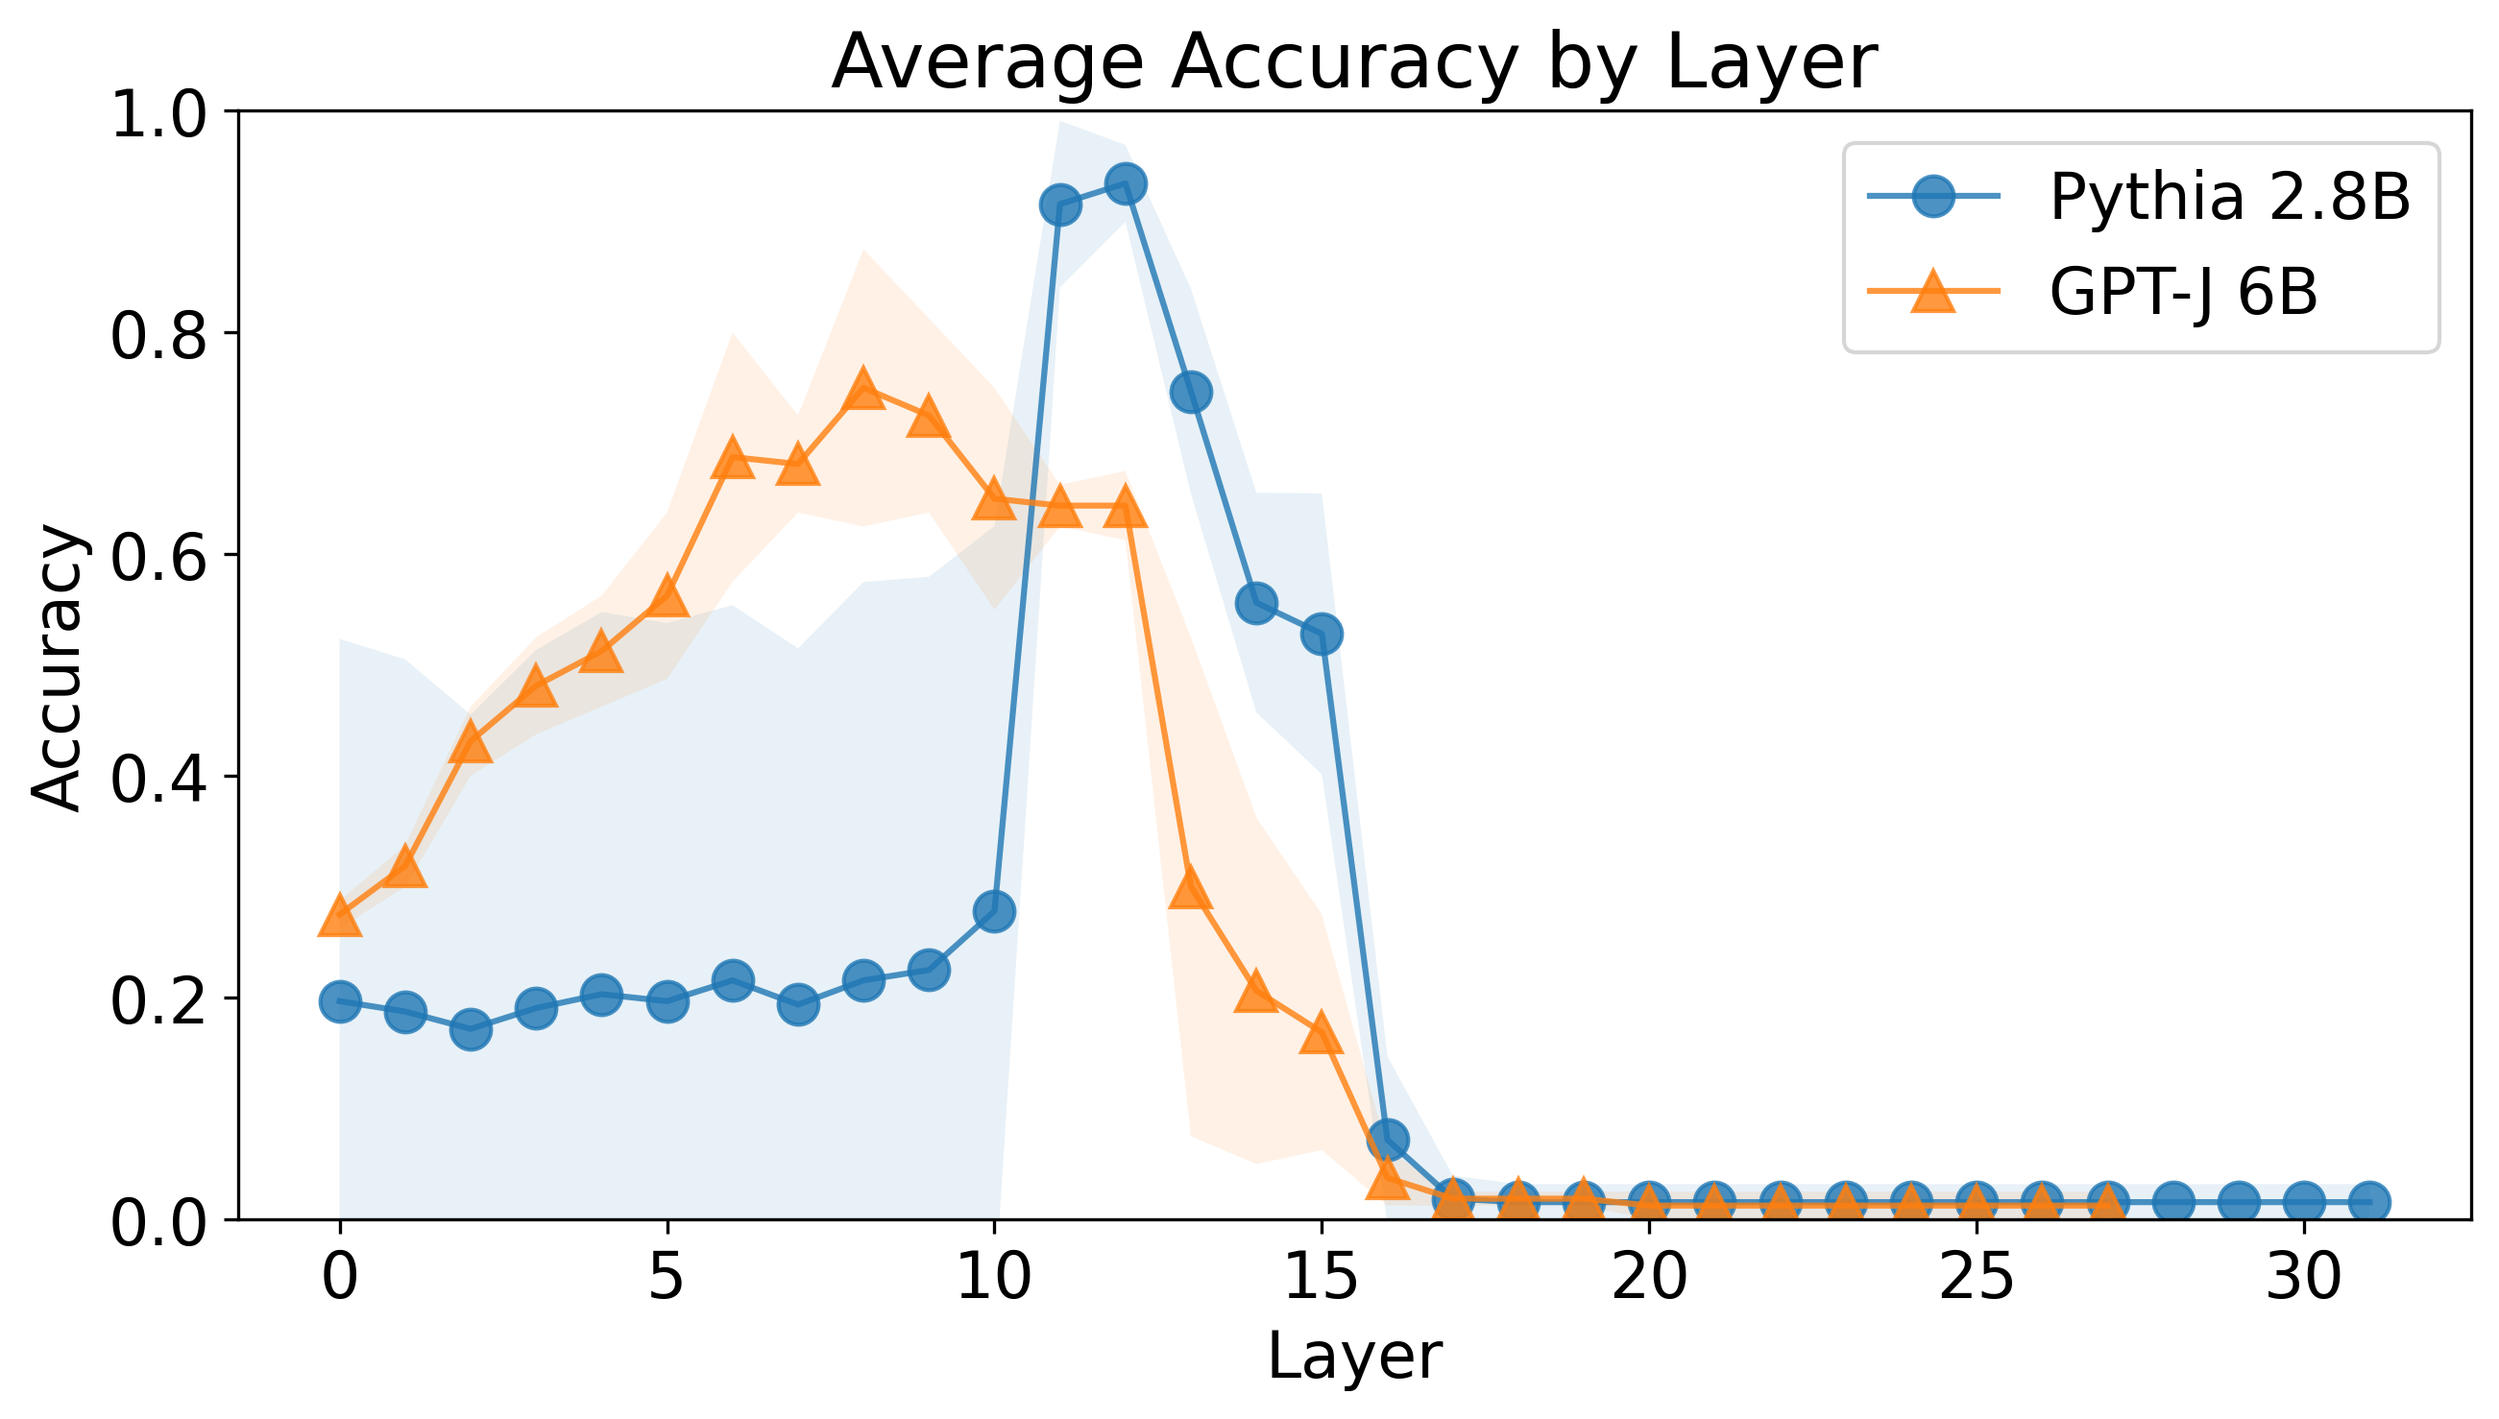
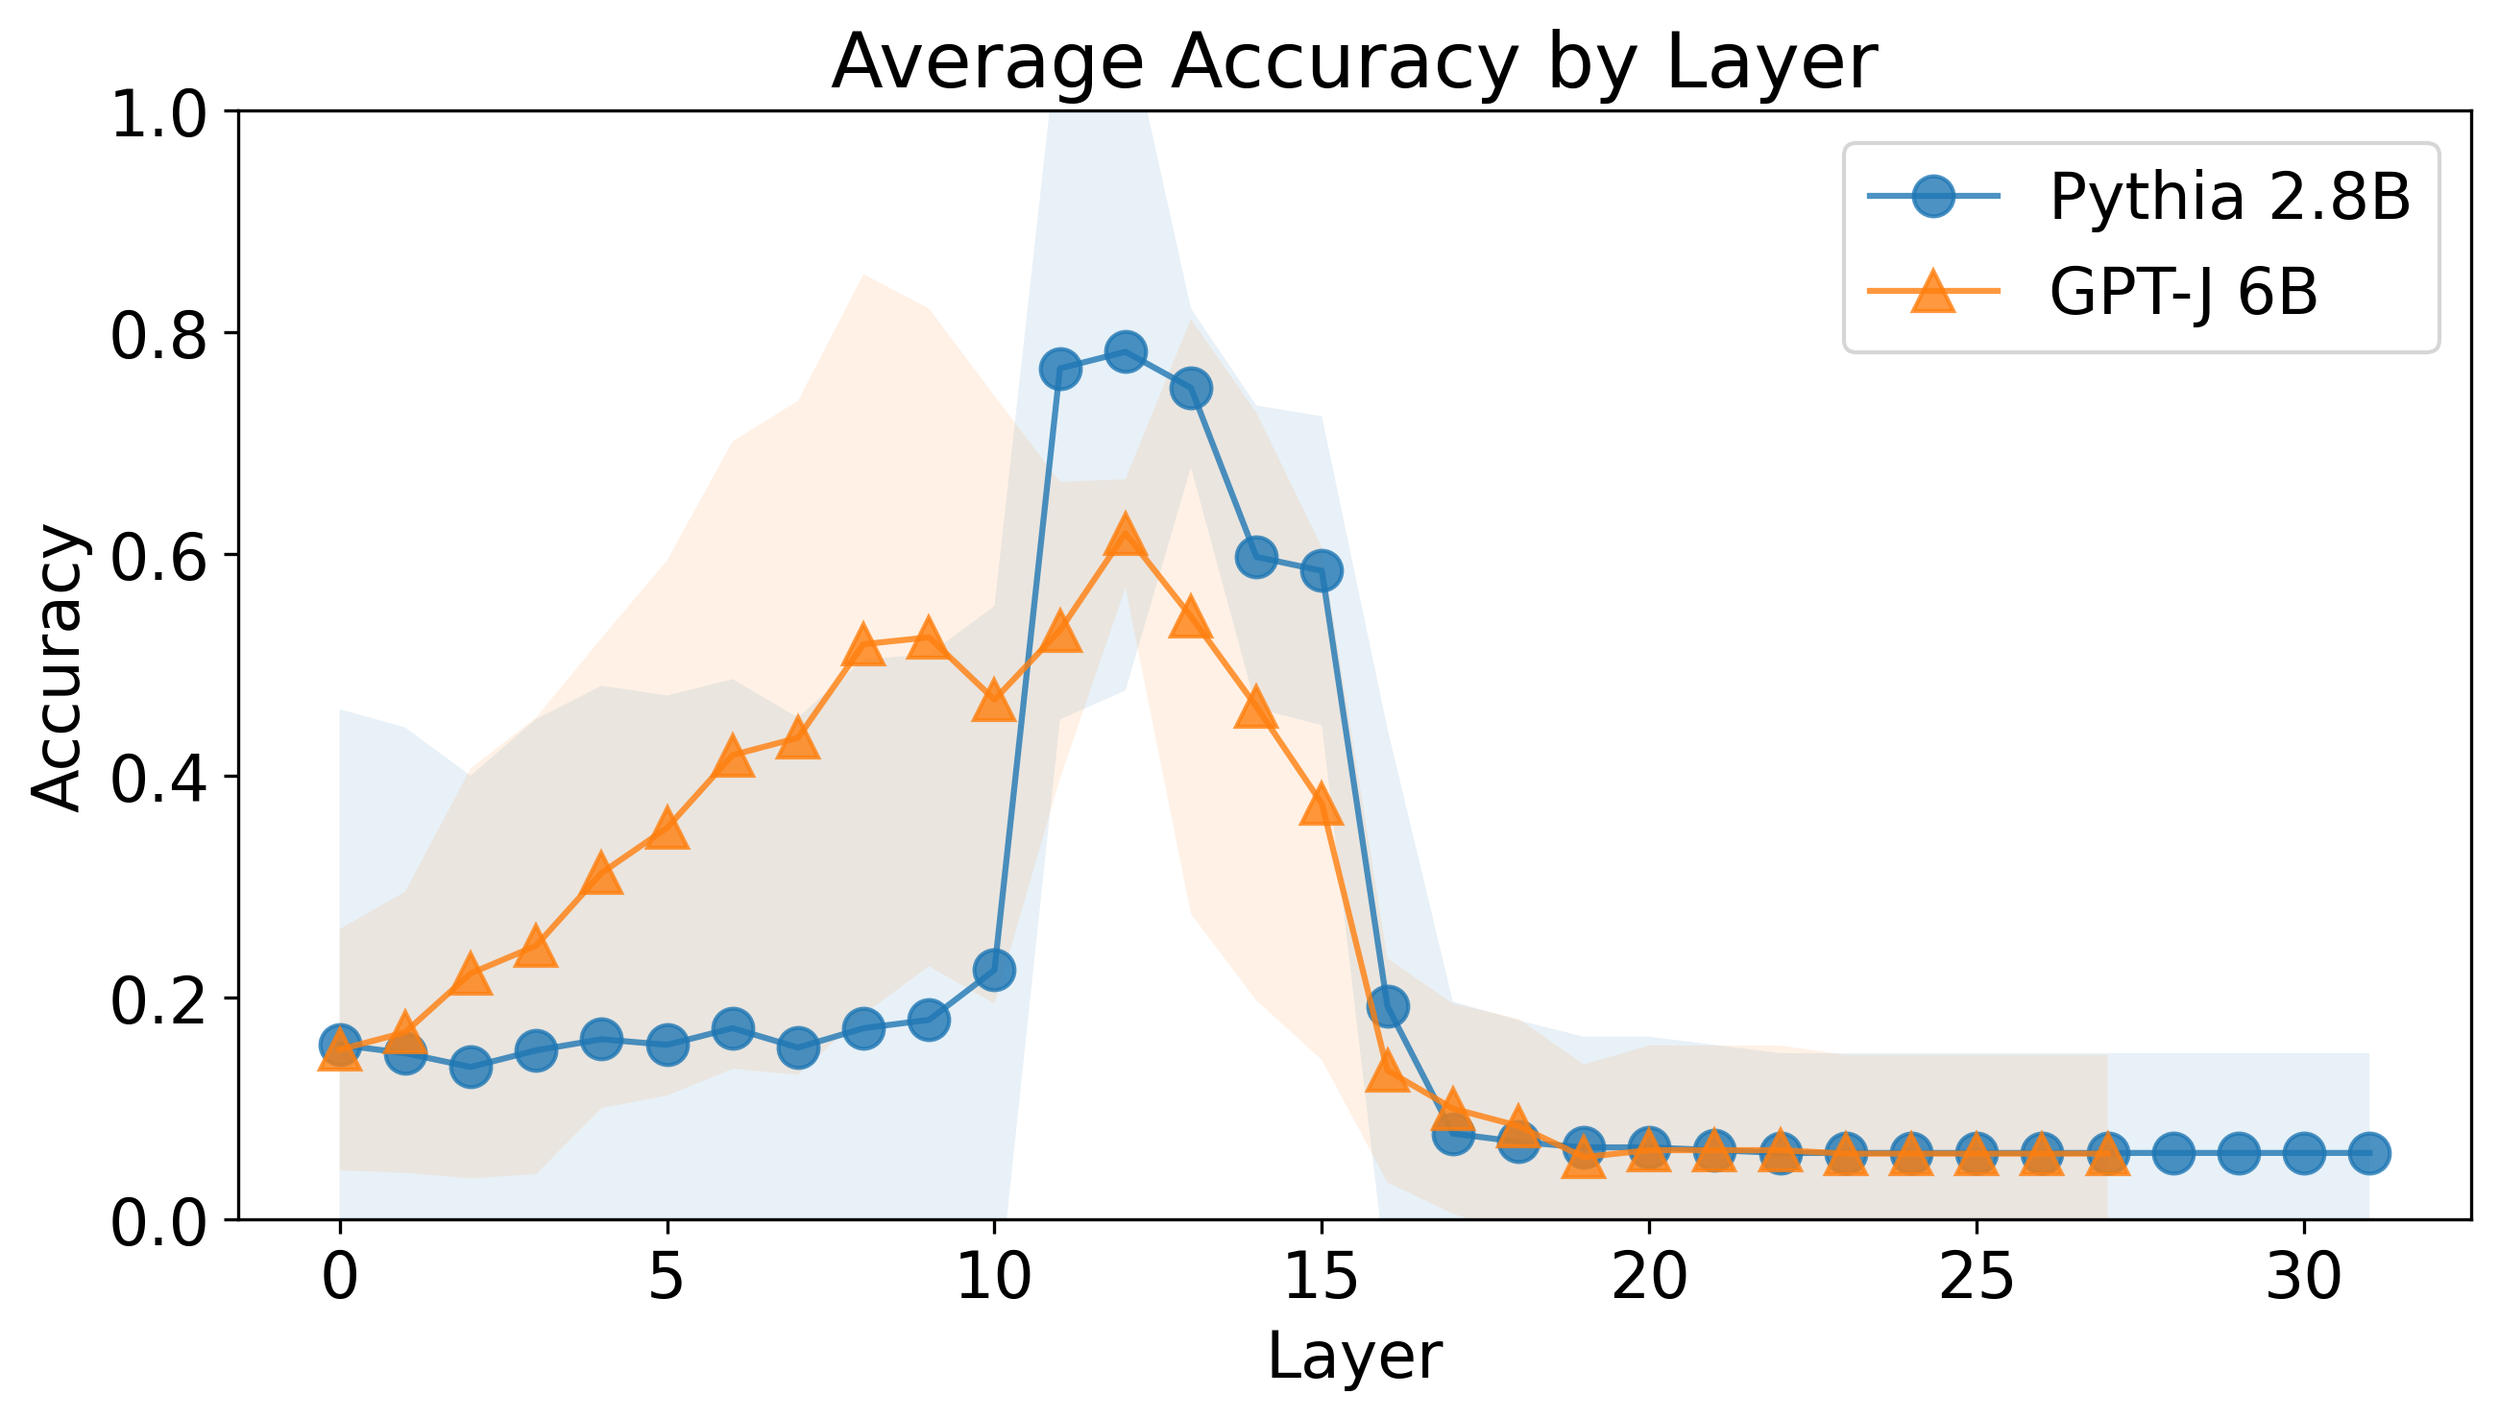
layer-5

diff --git a/outputs/figures/main_experiment_results_table.tex b/outputs/figures/main_experiment_results_table.tex
@@ -19,49 +19,49 @@ Model & Task type & Task name &  &  &  &  &  &  &  &  &  &  &  &  &  \\
 \midrule
     \endhead
     
-\multirow[t]{18}{*}{GPT-J 6B} & \multirow[t]{6}{*}{Algorithmic} & List first & 0.23 & 0.90 & 0.80 & 0.79 & 0.72 & 0.70 & 0.72 & 0.75 & 0.72 & 0.76 & 0.72 & 0.79 & 0.82 \\
- &  & List last & 0.31 & 0.93 & 0.47 & 0.45 & 0.44 & 0.38 & 0.46 & 0.41 & 0.51 & 0.51 & 0.44 & 0.45 & 0.41 \\
- &  & Next letter & 0.25 & 0.86 & 0.86 & 0.86 & 0.86 & 0.90 & 0.91 & 0.95 & 0.93 & 0.95 & 0.94 & 0.94 & 0.91 \\
- &  & Prev letter & 0.15 & 0.23 & 0.21 & 0.15 & 0.28 & 0.25 & 0.29 & 0.23 & 0.19 & 0.21 & 0.28 & 0.24 & 0.23 \\
- &  & To lower & 0.00 & 1.00 & 0.10 & 0.14 & 0.11 & 0.14 & 0.05 & 0.16 & 0.11 & 0.15 & 0.09 & 0.10 & 0.11 \\
- &  & To upper & 0.00 & 1.00 & 0.46 & 0.50 & 0.47 & 0.41 & 0.44 & 0.46 & 0.40 & 0.45 & 0.38 & 0.53 & 0.45 \\
+\multirow[t]{18}{*}{GPT-J 6B} & \multirow[t]{6}{*}{Algorithmic} & List first & 0.23 & 0.90 & 0.80 & 0.76 & 0.71 & 0.71 & 0.74 & 0.76 & 0.79 & 0.71 & 0.82 & 0.75 & 0.70 \\
+ &  & List last & 0.31 & 0.93 & 0.47 & 0.44 & 0.44 & 0.44 & 0.39 & 0.47 & 0.46 & 0.49 & 0.45 & 0.47 & 0.46 \\
+ &  & Next letter & 0.15 & 0.91 & 0.93 & 0.95 & 0.95 & 0.91 & 0.97 & 0.93 & 0.90 & 0.94 & 0.93 & 0.95 & 0.94 \\
+ &  & Prev letter & 0.16 & 0.21 & 0.16 & 0.19 & 0.20 & 0.19 & 0.16 & 0.17 & 0.14 & 0.20 & 0.19 & 0.20 & 0.20 \\
+ &  & To lower & 0.00 & 1.00 & 0.07 & 0.17 & 0.12 & 0.15 & 0.15 & 0.14 & 0.14 & 0.14 & 0.16 & 0.24 & 0.16 \\
+ &  & To upper & 0.00 & 1.00 & 0.51 & 0.55 & 0.60 & 0.53 & 0.56 & 0.64 & 0.53 & 0.62 & 0.47 & 0.56 & 0.56 \\
 \cline{2-16}
- & \multirow[t]{4}{*}{Knowledge} & Country capital & 0.07 & 0.54 & 0.36 & 0.53 & 0.50 & 0.45 & 0.49 & 0.50 & 0.46 & 0.40 & 0.46 & 0.55 & 0.50 \\
- &  & Location continent & 0.02 & 0.70 & 0.55 & 0.59 & 0.61 & 0.60 & 0.66 & 0.70 & 0.57 & 0.55 & 0.51 & 0.54 & 0.65 \\
- &  & Location religion & 0.06 & 0.68 & 0.57 & 0.55 & 0.69 & 0.62 & 0.60 & 0.53 & 0.66 & 0.64 & 0.69 & 0.64 & 0.59 \\
- &  & Person language & 0.02 & 0.81 & 0.74 & 0.74 & 0.75 & 0.74 & 0.78 & 0.75 & 0.72 & 0.78 & 0.74 & 0.74 & 0.71 \\
+ & \multirow[t]{4}{*}{Knowledge} & Country capital & 0.14 & 0.64 & 0.46 & 0.50 & 0.40 & 0.44 & 0.42 & 0.51 & 0.47 & 0.51 & 0.46 & 0.45 & 0.51 \\
+ &  & Location continent & 0.00 & 0.69 & 0.54 & 0.56 & 0.47 & 0.46 & 0.59 & 0.57 & 0.50 & 0.55 & 0.56 & 0.54 & 0.49 \\
+ &  & Location religion & 0.07 & 0.69 & 0.56 & 0.57 & 0.71 & 0.68 & 0.59 & 0.71 & 0.69 & 0.60 & 0.60 & 0.59 & 0.57 \\
+ &  & Person language & 0.04 & 0.80 & 0.70 & 0.79 & 0.74 & 0.74 & 0.79 & 0.76 & 0.76 & 0.74 & 0.76 & 0.74 & 0.82 \\
 \cline{2-16}
- & \multirow[t]{4}{*}{Linguistic} & Antonyms & 0.35 & 0.79 & 0.60 & 0.66 & 0.64 & 0.70 & 0.65 & 0.71 & 0.68 & 0.68 & 0.70 & 0.62 & 0.66 \\
- &  & Plural singular & 0.06 & 0.80 & 0.72 & 0.76 & 0.71 & 0.68 & 0.78 & 0.72 & 0.79 & 0.72 & 0.71 & 0.79 & 0.76 \\
- &  & Present simple gerund & 0.00 & 0.93 & 0.78 & 0.94 & 0.81 & 0.81 & 0.84 & 0.89 & 0.84 & 0.82 & 0.86 & 0.85 & 0.85 \\
- &  & Present simple past simple & 0.01 & 0.84 & 0.62 & 0.84 & 0.80 & 0.75 & 0.82 & 0.81 & 0.74 & 0.76 & 0.81 & 0.79 & 0.71 \\
+ & \multirow[t]{4}{*}{Linguistic} & Antonyms & 0.31 & 0.72 & 0.60 & 0.61 & 0.59 & 0.61 & 0.65 & 0.60 & 0.61 & 0.68 & 0.57 & 0.57 & 0.59 \\
+ &  & Plural singular & 0.06 & 0.81 & 0.79 & 0.81 & 0.76 & 0.80 & 0.79 & 0.81 & 0.84 & 0.79 & 0.79 & 0.72 & 0.81 \\
+ &  & Present simple gerund & 0.00 & 0.91 & 0.68 & 0.75 & 0.78 & 0.78 & 0.78 & 0.76 & 0.81 & 0.78 & 0.69 & 0.76 & 0.76 \\
+ &  & Present simple past simple & 0.02 & 0.86 & 0.57 & 0.65 & 0.68 & 0.66 & 0.64 & 0.71 & 0.68 & 0.71 & 0.62 & 0.57 & 0.62 \\
 \cline{2-16}
- & \multirow[t]{4}{*}{Translation} & En es & 0.14 & 0.44 & 0.51 & 0.50 & 0.50 & 0.51 & 0.50 & 0.47 & 0.50 & 0.47 & 0.53 & 0.51 & 0.49 \\
- &  & En fr & 0.21 & 0.42 & 0.35 & 0.36 & 0.38 & 0.36 & 0.40 & 0.38 & 0.36 & 0.34 & 0.36 & 0.38 & 0.39 \\
- &  & Es en & 0.06 & 0.76 & 0.65 & 0.71 & 0.65 & 0.71 & 0.70 & 0.65 & 0.66 & 0.65 & 0.74 & 0.71 & 0.61 \\
- &  & Fr en & 0.11 & 0.71 & 0.50 & 0.57 & 0.60 & 0.61 & 0.57 & 0.57 & 0.57 & 0.59 & 0.60 & 0.64 & 0.60 \\
+ & \multirow[t]{4}{*}{Translation} & En es & 0.21 & 0.49 & 0.41 & 0.41 & 0.40 & 0.42 & 0.41 & 0.41 & 0.40 & 0.40 & 0.36 & 0.40 & 0.40 \\
+ &  & En fr & 0.14 & 0.36 & 0.31 & 0.28 & 0.35 & 0.33 & 0.34 & 0.31 & 0.33 & 0.31 & 0.36 & 0.30 & 0.34 \\
+ &  & Es en & 0.04 & 0.82 & 0.62 & 0.69 & 0.71 & 0.62 & 0.68 & 0.74 & 0.72 & 0.70 & 0.74 & 0.66 & 0.75 \\
+ &  & Fr en & 0.08 & 0.65 & 0.40 & 0.41 & 0.49 & 0.53 & 0.41 & 0.47 & 0.40 & 0.47 & 0.45 & 0.40 & 0.41 \\
 \cline{1-16} \cline{2-16}
-\multirow[t]{18}{*}{Pythia 2.8B} & \multirow[t]{6}{*}{Algorithmic} & List first & 0.65 & 0.95 & 0.95 & 0.99 & 0.94 & 0.94 & 0.91 & 0.96 & 0.94 & 0.96 & 0.95 & 0.96 & 1.00 \\
- &  & List last & 0.02 & 0.95 & 0.91 & 0.94 & 0.91 & 0.91 & 0.91 & 0.90 & 0.94 & 0.91 & 0.96 & 0.89 & 0.93 \\
- &  & Next letter & 0.44 & 0.90 & 0.76 & 0.80 & 0.72 & 0.71 & 0.75 & 0.72 & 0.71 & 0.68 & 0.76 & 0.78 & 0.79 \\
- &  & Prev letter & 0.08 & 0.19 & 0.14 & 0.16 & 0.17 & 0.17 & 0.21 & 0.16 & 0.16 & 0.15 & 0.16 & 0.17 & 0.12 \\
- &  & To lower & 0.00 & 1.00 & 0.91 & 0.91 & 0.88 & 0.90 & 0.96 & 0.90 & 0.93 & 0.88 & 0.96 & 0.95 & 0.94 \\
- &  & To upper & 0.00 & 1.00 & 0.91 & 0.95 & 0.90 & 0.93 & 0.97 & 0.89 & 0.94 & 0.95 & 0.90 & 0.99 & 0.95 \\
+\multirow[t]{18}{*}{Pythia 2.8B} & \multirow[t]{6}{*}{Algorithmic} & List first & 0.65 & 0.95 & 0.95 & 0.94 & 0.91 & 0.95 & 0.95 & 0.97 & 0.94 & 0.96 & 0.90 & 0.97 & 0.94 \\
+ &  & List last & 0.02 & 0.95 & 0.91 & 0.90 & 0.90 & 0.91 & 0.91 & 0.91 & 0.94 & 0.96 & 0.93 & 0.90 & 0.96 \\
+ &  & Next letter & 0.46 & 0.85 & 0.65 & 0.66 & 0.64 & 0.68 & 0.69 & 0.68 & 0.66 & 0.66 & 0.65 & 0.66 & 0.68 \\
+ &  & Prev letter & 0.03 & 0.11 & 0.09 & 0.07 & 0.06 & 0.06 & 0.09 & 0.10 & 0.09 & 0.09 & 0.12 & 0.09 & 0.09 \\
+ &  & To lower & 0.00 & 1.00 & 0.95 & 0.96 & 0.95 & 0.95 & 0.94 & 0.97 & 0.93 & 0.93 & 0.96 & 0.94 & 0.94 \\
+ &  & To upper & 0.00 & 1.00 & 0.90 & 0.93 & 0.93 & 0.97 & 0.94 & 0.91 & 0.93 & 0.94 & 0.96 & 0.95 & 0.95 \\
 \cline{2-16}
- & \multirow[t]{4}{*}{Knowledge} & Country capital & 0.08 & 0.47 & 0.45 & 0.51 & 0.49 & 0.53 & 0.47 & 0.50 & 0.55 & 0.51 & 0.55 & 0.47 & 0.50 \\
- &  & Location continent & 0.02 & 0.68 & 0.59 & 0.60 & 0.61 & 0.56 & 0.68 & 0.66 & 0.53 & 0.59 & 0.62 & 0.56 & 0.65 \\
- &  & Location religion & 0.06 & 0.61 & 0.47 & 0.54 & 0.61 & 0.50 & 0.57 & 0.51 & 0.57 & 0.60 & 0.50 & 0.56 & 0.50 \\
- &  & Person language & 0.01 & 0.71 & 0.61 & 0.64 & 0.64 & 0.64 & 0.65 & 0.61 & 0.60 & 0.68 & 0.60 & 0.68 & 0.69 \\
+ & \multirow[t]{4}{*}{Knowledge} & Country capital & 0.19 & 0.61 & 0.54 & 0.50 & 0.57 & 0.55 & 0.56 & 0.50 & 0.56 & 0.51 & 0.57 & 0.54 & 0.54 \\
+ &  & Location continent & 0.00 & 0.71 & 0.57 & 0.61 & 0.61 & 0.56 & 0.57 & 0.66 & 0.66 & 0.60 & 0.59 & 0.61 & 0.60 \\
+ &  & Location religion & 0.09 & 0.62 & 0.59 & 0.57 & 0.64 & 0.60 & 0.56 & 0.64 & 0.65 & 0.59 & 0.60 & 0.59 & 0.60 \\
+ &  & Person language & 0.01 & 0.79 & 0.71 & 0.70 & 0.71 & 0.62 & 0.71 & 0.75 & 0.70 & 0.74 & 0.65 & 0.74 & 0.74 \\
 \cline{2-16}
- & \multirow[t]{4}{*}{Linguistic} & Antonyms & 0.40 & 0.71 & 0.60 & 0.60 & 0.55 & 0.62 & 0.57 & 0.57 & 0.57 & 0.55 & 0.61 & 0.55 & 0.59 \\
- &  & Plural singular & 0.11 & 0.71 & 0.64 & 0.64 & 0.65 & 0.62 & 0.56 & 0.60 & 0.69 & 0.64 & 0.61 & 0.65 & 0.70 \\
- &  & Present simple gerund & 0.00 & 0.75 & 0.62 & 0.68 & 0.55 & 0.54 & 0.68 & 0.59 & 0.62 & 0.62 & 0.64 & 0.64 & 0.62 \\
- &  & Present simple past simple & 0.01 & 0.80 & 0.66 & 0.70 & 0.65 & 0.71 & 0.74 & 0.65 & 0.72 & 0.66 & 0.76 & 0.66 & 0.69 \\
+ & \multirow[t]{4}{*}{Linguistic} & Antonyms & 0.38 & 0.72 & 0.51 & 0.51 & 0.60 & 0.49 & 0.56 & 0.54 & 0.56 & 0.55 & 0.54 & 0.54 & 0.56 \\
+ &  & Plural singular & 0.07 & 0.61 & 0.66 & 0.66 & 0.65 & 0.66 & 0.68 & 0.64 & 0.66 & 0.68 & 0.64 & 0.68 & 0.65 \\
+ &  & Present simple gerund & 0.00 & 0.75 & 0.65 & 0.60 & 0.60 & 0.64 & 0.59 & 0.60 & 0.62 & 0.65 & 0.60 & 0.64 & 0.65 \\
+ &  & Present simple past simple & 0.01 & 0.84 & 0.65 & 0.78 & 0.68 & 0.69 & 0.72 & 0.69 & 0.66 & 0.66 & 0.68 & 0.69 & 0.64 \\
 \cline{2-16}
- & \multirow[t]{4}{*}{Translation} & En es & 0.06 & 0.38 & 0.17 & 0.17 & 0.15 & 0.14 & 0.12 & 0.14 & 0.14 & 0.16 & 0.14 & 0.14 & 0.14 \\
- &  & En fr & 0.12 & 0.51 & 0.38 & 0.40 & 0.39 & 0.38 & 0.42 & 0.42 & 0.41 & 0.41 & 0.38 & 0.41 & 0.42 \\
- &  & Es en & 0.11 & 0.81 & 0.54 & 0.57 & 0.62 & 0.60 & 0.56 & 0.61 & 0.53 & 0.56 & 0.59 & 0.57 & 0.56 \\
- &  & Fr en & 0.12 & 0.71 & 0.47 & 0.51 & 0.46 & 0.47 & 0.47 & 0.47 & 0.50 & 0.50 & 0.51 & 0.44 & 0.49 \\
+ & \multirow[t]{4}{*}{Translation} & En es & 0.08 & 0.49 & 0.15 & 0.16 & 0.20 & 0.17 & 0.19 & 0.19 & 0.20 & 0.20 & 0.19 & 0.20 & 0.20 \\
+ &  & En fr & 0.11 & 0.39 & 0.28 & 0.28 & 0.26 & 0.29 & 0.29 & 0.28 & 0.28 & 0.29 & 0.30 & 0.28 & 0.28 \\
+ &  & Es en & 0.13 & 0.76 & 0.55 & 0.61 & 0.47 & 0.57 & 0.55 & 0.56 & 0.51 & 0.57 & 0.56 & 0.51 & 0.53 \\
+ &  & Fr en & 0.16 & 0.71 & 0.47 & 0.55 & 0.54 & 0.51 & 0.54 & 0.50 & 0.47 & 0.49 & 0.46 & 0.50 & 0.53 \\
 \cline{1-16} \cline{2-16}
 \bottomrule
 \end{longtable}

diff --git a/outputs/figures/top_tokens_table.tex b/outputs/figures/top_tokens_table.tex
@@ -2,15 +2,15 @@
 \toprule
  &  & 0 \\
 \midrule
-\multirow[t]{4}{*}{pythia_2.8B} & algorithmic_prev_letter & thous, aeda, OOST, CURI, IRST, PARTICULAR, e, CLUDING, prehens, SAME, ovember, ifacts, preced, Payload, preceded, perty, THEORY, mint, smallcaps, advertis \\
- & translation_fr_en & OOST, CURI, CHANT, PLIED, orect, HECK, ovember, RAF, Lemmon, BASIS, aturday, qc, fileID, REEK, YING, rapeutics, IRST, PARTICULAR, OLOR, UGH \\
- & linguistic_present_simple_gerund & PLIED, RAF, OOST, YING, CURI, Accessor, CHANT, ovember, CLUDING, fileID, perty, HECK, rapeutics, unnumbered, quo, satell, rv, completing, rans, aturday \\
- & knowledge_country_capital & thous, answ, HECK, CURI, OOST, RAF, advertis, uncert, orche, establ, laug, acknow, satell, REEK, strugg, Syrac, ITERATION, behav, POSE, tomat \\
+\multirow[t]{4}{*}{pythia_2.8B} & algorithmic_prev_letter & OOST, aeda, thous, CURI, PARTICULAR, HECK, REEK, perty, gether, IRST, woke, ovember, UGH, ENSE, vess, CLUDING, ifacts, ibase, SAME, orche \\
+ & translation_fr_en & OOST, CURI, PLIED, CHANT, HECK, orect, Lemmon, RAF, ovember, fileID, REEK, PARTICULAR, aturday, CLUDING, qc, IRST, BASIS, YING, rapeutics, UGH \\
+ & linguistic_present_simple_gerund & PLIED, RAF, OOST, YING, fileID, Accessor, CLUDING, CURI, CHANT, ovember, unnumbered, GAN, rapeutics, perty, HECK, rv, OMEM, rans, leman, turning \\
+ & knowledge_country_capital & thous, answ, HECK, OOST, CURI, RAF, advertis, uncert, laug, orche, establ, strugg, satell, acknow, behav, REEK, tomat, CHANT, Syrac, ITERATION \\
 \cline{1-3}
-\multirow[t]{4}{*}{gpt-j_6B} & algorithmic_prev_letter & name, c, v, s, b, g, test, n, ro, a, t, i, m, d, next, x, open, active, is, hello \\
- & translation_fr_en & name, other, the, car, true, s, active, is, F, social, n, cancer, b, public, ms, head, a, whole, related, medicine \\
- & linguistic_present_simple_gerund & getting, working, playing, storing, using, being, s, the, making, feeding, moving, active, doing, driving, selling, d, teaching, changing, shooting, writing \\
- & knowledge_country_capital & London, West, South, Paris, Germany, East, New, North, Berlin, Mexico, City, Northern, Tokyo, The, Jerusalem, Chicago, Philadelphia, San, United, cities \\
+\multirow[t]{4}{*}{gpt-j_6B} & algorithmic_prev_letter & v, name, s, c, g, b, n, test, ro, m, i, a, d, t, open, ma, next, es, j, hello \\
+ & translation_fr_en & s, the, world, car, d, law, main, other, name, time, social, life, all, is, heart, force, more, power, money, c \\
+ & linguistic_present_simple_gerund & getting, storing, working, playing, making, using, being, driving, doing, shooting, the, moving, putting, selling, feeding, writing, teaching, active, talking, picking \\
+ & knowledge_country_capital & London, West, South, Germany, New, East, Paris, North, Berlin, The, United, Northern, City, Philadelphia, Tokyo, Mexico, s, San, Chicago, Republic \\
 \cline{1-3}
 \bottomrule
 \end{tabular}

diff --git a/core/task_vectors.py b/core/task_vectors.py
@@ -96,7 +96,7 @@ def stack_helper(
     ]
     new_task_hiddens = get_task_hiddens(model, tokenizer, task, new_test_datasets, multi_context=multi_context,
                                         moderate=True, prev_hiddens=task_hiddens,
-                                        prev_intermediate_layer=best_intermediate_layer-6) # -1
+                                        prev_intermediate_layer=best_intermediate_layer+1) # -1
     stack_predictions = modulated_generate(
         model,
         tokenizer,

diff --git a/scripts/figures/main.py b/scripts/figures/main.py
@@ -309,5 +309,5 @@ def create_all_figures(experiment_id: str):
 
 
 if __name__ == "__main__":
-    experiment_id = "17"
+    experiment_id = "18"
     create_all_figures(experiment_id)
